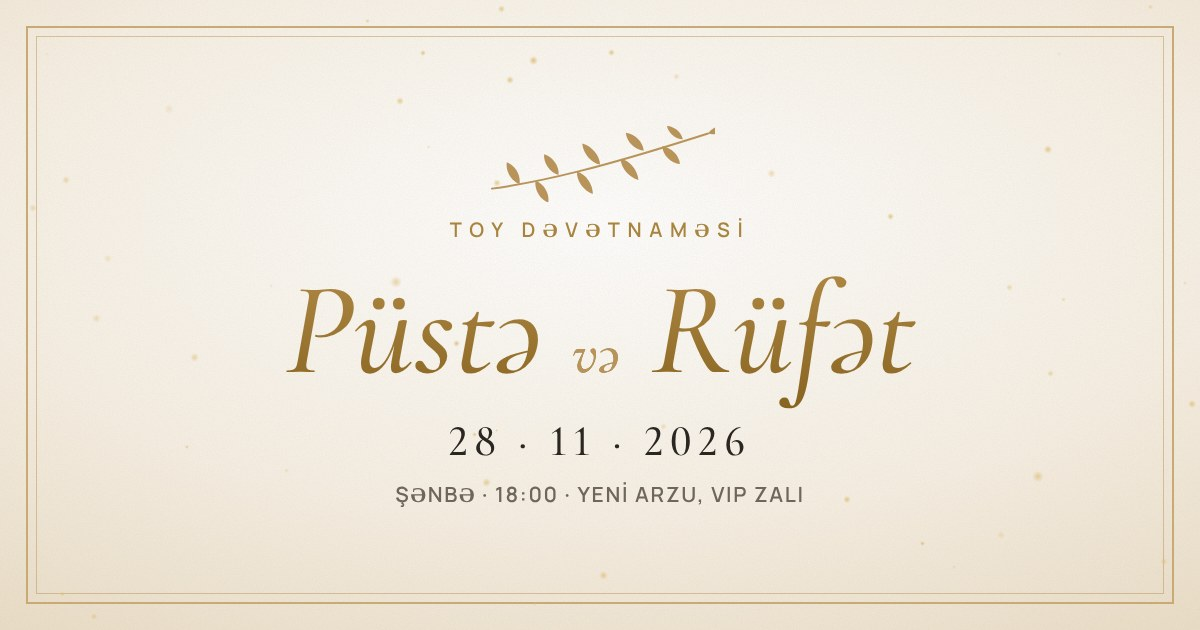
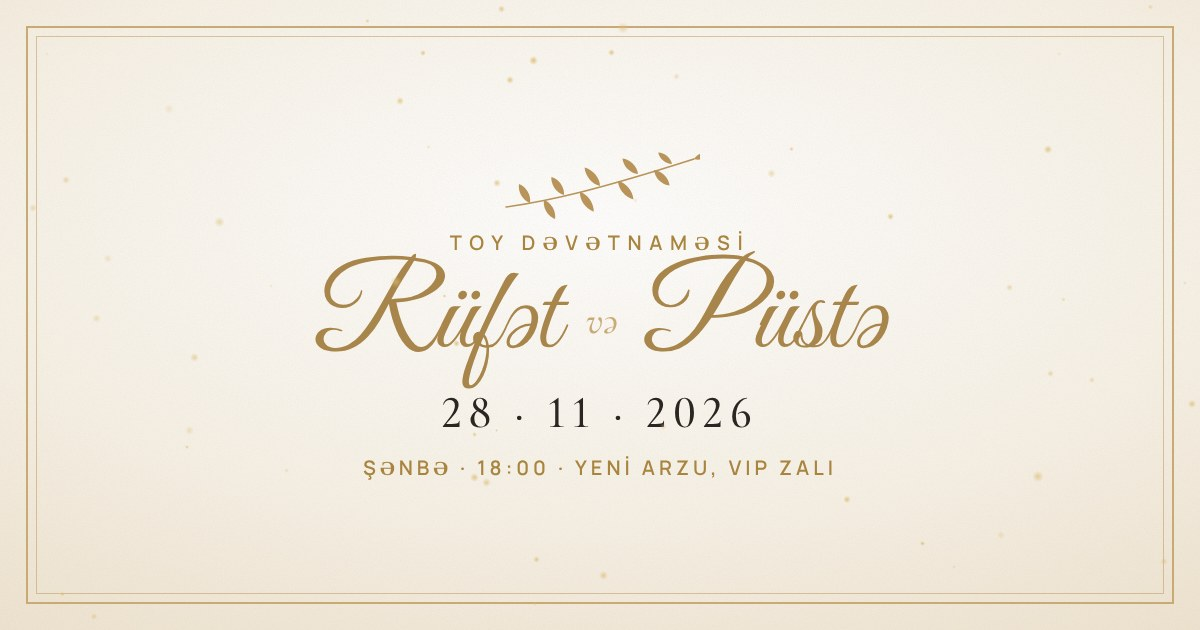
Add files via upload

Changed region(s): [[0.2467, 0.2111, 0.7708, 0.8143], [0.4625, 0.4524, 0.4933, 0.4825]]

diff --git a/foto.html b/foto.html
@@ -6,7 +6,7 @@
 <title>Rüfət və Püstə — Toy şəkilləri</title>
 <meta property="og:title" content="Rüfət və Püstə — Toy şəkilləri">
 <meta property="og:description" content="Toyda çəkdiyiniz şəkilləri bizimlə bölüşün">
-<meta property="og:image" content="https://kenan678.github.io/puste-rufet/og-image.jpg">
+<meta property="og:image" content="https://kenan678.github.io/puste-rufet/og-image.jpg?v=2">
 <meta name="theme-color" content="#F6EFE3">
 <link rel="preconnect" href="https://fonts.googleapis.com">
 <link rel="preconnect" href="https://fonts.gstatic.com" crossorigin>

diff --git a/index.html b/index.html
@@ -9,7 +9,7 @@
 <meta property="og:description" content="28 Noyabr 2026, Şənbə · 18:00 · Yeni Arzu, VIP zalı">
 <meta property="og:type" content="website">
 <meta property="og:url" content="https://kenan678.github.io/puste-rufet/">
-<meta property="og:image" content="https://kenan678.github.io/puste-rufet/og-image.jpg">
+<meta property="og:image" content="https://kenan678.github.io/puste-rufet/og-image.jpg?v=2">
 <meta property="og:image:width" content="1200">
 <meta property="og:image:height" content="630">
 <meta name="twitter:card" content="summary_large_image">
